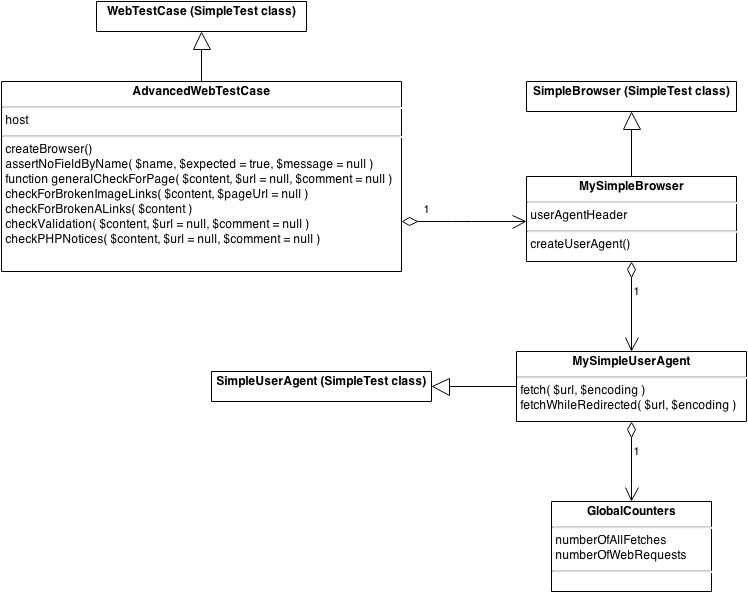
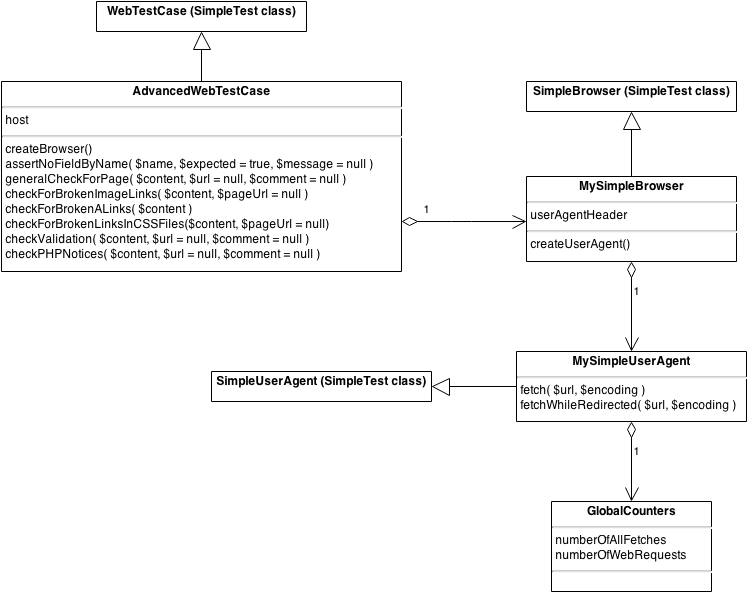
updating readme, adding screenshot, example.

Changed region(s): [[0.0, 0.3624, 0.4305, 0.453], [0.0, 0.2718, 0.4612, 0.3322], [0.492, 0.2718, 0.5227, 0.302]]

diff --git a/src/AdvancedWebTestCase.php b/src/AdvancedWebTestCase.php
@@ -2,6 +2,7 @@
 
 require_once(dirname(__FILE__) . '/../simpletest/web_tester.php');
 
+require_once ('MySimpleBrowser.php');
 require_once('GlobalCounters.php');
 
 
@@ -10,8 +11,10 @@ class AdvancedWebTestCase extends WebTestCase
 	public $createDate = '2013-12-05';
 	public $updateDate = '2014-04-09';
 
+	public $fullTitle;
+	public $shortTitle;
+	
 	protected $host;
-
 	protected $timer;
 
 	protected $previousNumberOfAllFetches;
@@ -40,9 +43,9 @@ class AdvancedWebTestCase extends WebTestCase
 		$elapsedTime = round(microtime(true) - $this->timer, 1);
 		$fileName = get_class($this) . ".php";
 		$title = "";
-		if ( isset($this->title) )
+		if ( isset($this->fullTitle) )
 		{
-			$title = "($this->title) ";
+			$title = "($this->fullTitle) ";
 		}
 
 		$numberOfAllFetches = GlobalCounters::$numberOfAllFetches - $this->previousNumberOfAllFetches;
@@ -122,13 +125,23 @@ class AdvancedWebTestCase extends WebTestCase
 
 			foreach($imageLinkList as $imageLink)
 			{
-				$imageLinkSimpleUrl = new SimpleUrl($imageLink);
-				$imageUrl = $imageLinkSimpleUrl->makeAbsolute($pageUrl)->asString();
+				$cssFileSimpleUrl = new SimpleUrl($cssFileLink);
+				if ($cssFileSimpleUrl->getHost() === false)
+				{
+					// $cssFileLink is relative link
+					$imageUrl = $this->makeAbsolute($imageLink, $pageUrl);
+				} else
+				{
+					$imageUrl = $this->makeAbsolute($imageLink, $cssFileLink);
+				}
+
 
 				if ( !in_array($imageUrl, $this->urlAlreadyCheckedList) )
 				{
-					$simpleBrowser->get($imageUrl);
-					$this->assertEqual($simpleBrowser->getResponseCode(), 200, "url=$imageLink. Found in CSS file:  $cssFileLink. Page: $pageUrl. %s");
+					$responseCodeForImageLink = $this->getResponseCodeForImageLink($imageUrl);
+
+					$this->assertEqual($responseCodeForImageLink, 200, "original url from CSS file: $imageLink. 
+						Converted into absolute url: $imageUrl. Found in CSS file:  $cssFileLink. Page: $pageUrl. %s");
 					$this->urlAlreadyCheckedList[] = $imageUrl;
 				}
 			}
@@ -158,8 +171,7 @@ class AdvancedWebTestCase extends WebTestCase
 		$simpleBrowser = new MySimpleBrowser();
 		foreach($imageLinkList as $imageLink)
 		{
-			$imageLinkSimpleUrl = new SimpleUrl($imageLink);
-			$imageUrl = $imageLinkSimpleUrl->makeAbsolute($pageUrl)->asString();
+			$imageUrl = $this->makeAbsolute($imageLink, $pageUrl);
 
 			if ( !in_array($imageUrl, $this->urlAlreadyCheckedList) )
 			{
@@ -168,6 +180,15 @@ class AdvancedWebTestCase extends WebTestCase
 				$this->urlAlreadyCheckedList[] = $imageUrl;
 			}
 		}
+	}
+
+
+	protected function getResponseCodeForImageLink($imageUrl) // avoiding parsing response as HTML text (since it's raw image data)
+	{
+		$mySimpleUserAgent = new MySimpleUserAgent();
+		$simpleHttpResponse = $mySimpleUserAgent->fetchResponse(new SimpleUrl($imageUrl), new SimpleGetEncoding());
+
+		return $simpleHttpResponse->getHeaders()->getResponseCode();
 	}
 
 
@@ -199,14 +220,7 @@ class AdvancedWebTestCase extends WebTestCase
 
 			if (substr($url, 0, 4) != "http")
 			{
-				if (substr($url, 0, 1) == '/')
-				{
-					$url = "$this->httpsSchemeForHost://$this->host$url";
-				} else
-				{
-					$simpleUrl = new SimpleUrl($url);
-					$url = $simpleUrl->makeAbsolute($pageUrl)->asString();
-				}
+				$url = $this->makeAbsolute($url, $pageUrl);
 			}
 
 			if ( !in_array($url, $this->urlAlreadyCheckedList) )
@@ -294,6 +308,7 @@ class AdvancedWebTestCase extends WebTestCase
 	{
 		$this->checkForBrokenImageLinks($content, $pageUrl);
 		$this->checkForBrokenALinks($content, $pageUrl, $comment);
+		$this->checkForBrokenLinksInCSSFiles($content, $pageUrl);
 		$this->checkValidation($content, $pageUrl);
 		$this->checkPHPNotices($content, $pageUrl, $comment);
 	}

diff --git a/examples/test.php b/examples/test.php
@@ -1,10 +1,9 @@
-AdvancedWebTestCase
-===================
+<?php
 
-AdvancedWebTestCase class extending SimpleTest class WebTestCase and adding additional features
+require_once 'classes/AdvancedWebTestCase.php';
+require_once('simpletest/autorun.php');
 
-### Quick Start and Examples
-```php
+
 class ExampleTest extends AdvancedWebTestCase
 { 
 
@@ -30,4 +29,3 @@ class ExampleTest extends AdvancedWebTestCase
 	}
 
 }
-```
